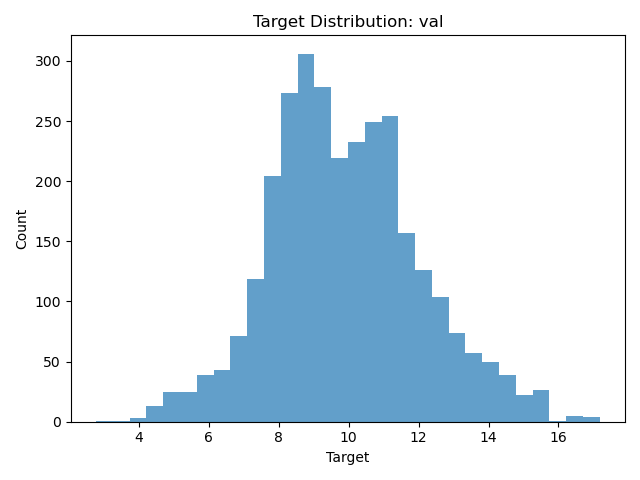
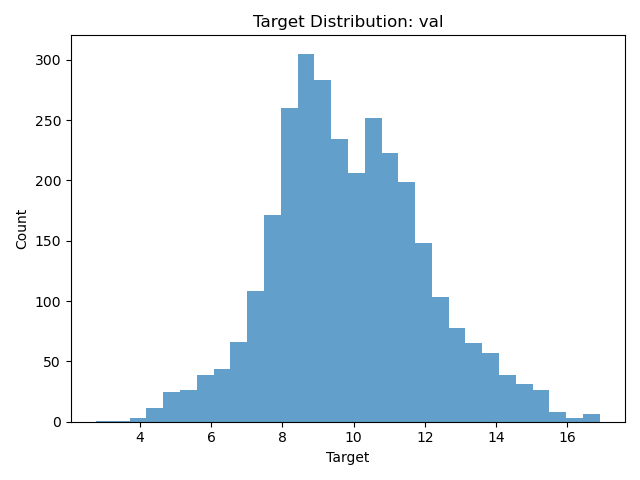
Update training configuration and improve checkpoint handling
- Added new parameters for learning rate scheduling in train.yaml
- Updated .gitignore to include new asset files
- Enhanced checkpoint logic in train.py to handle model recovery based on validation loss

diff --git a/train.py b/train.py
@@ -56,8 +56,7 @@ def train(cfg, train_idx=None, val_idx=None):
     # On retient dans une variable min_learning rate le learning rate final du scheduler
     # Cette variable min_learning_rate est très importante car elle conditionne la fin de
     # la convergence
-    min_learning_rate = cfg.min_learning_rate
-    scheduler = ReduceLROnPlateau(optimizer, mode='min', factor=0.1, patience=3, min_lr=min_learning_rate)
+    scheduler = ReduceLROnPlateau(optimizer, mode='min', factor=cfg.factor_learning_rate, patience=cfg.patience_learning_rate, min_lr=cfg.min_learning_rate)
 
     # Envoie le sanity check a wandb pour le training set
     train_sanity = show_images(train_loader, name="assets/sanity/train_images")
@@ -205,11 +204,13 @@ def train(cfg, train_idx=None, val_idx=None):
         # Sauvegarde #
         ##############
 
+        # On récupère le dernier checkpoint en vérifiant que l'on a déjà sauvegardé
+        # un modèle avant
+        if (epoch != 0) : 
+            checkpoint = torch.load(cfg.checkpoint_path, weights_only=False)
+        
+        # On sauvegarde à intervalles réguliers
         if (epoch % cfg.checkpoint_interval == 0) :
-            # On récupère le dernier checkpoint en vérifiant que l'on a déjà sauvegardé
-            # un modèle avant
-            if (epoch != 0) : 
-                checkpoint = torch.load(cfg.checkpoint_path, weights_only=False)
             # On verifie si le val_loss est meilleur que le dernier
             if (epoch == 0 or checkpoint['val_loss'] > epoch_val_loss) :
                 # Si oui, on sauvegarde le modèle    
@@ -223,12 +224,19 @@ def train(cfg, train_idx=None, val_idx=None):
                 torch.save(checkpoint, cfg.checkpoint_path)
                 print ("Modèle enregistré !")
 
+        # Si le modèle est pire que le dernier, on repart avec le précédent
+        if (checkpoint['val_loss'] < epoch_val_loss * (1 + cfg.aberration_val_loss)):
+            print ("Aberration de la val_loss")
+            model.load_state_dict(checkpoint)
+            optimizer.load_state_dict(checkpoint['optimizer_state_dict'])
+        
+
         ################################
         # Conditions de sortie de loop #
         ################################
         epoch += 1
 
-        if (current_lr <= min_learning_rate or epoch > max_epochs) :
+        if (current_lr <= cfg.min_learning_rate or epoch > max_epochs) :
             print ("***")
             print ("Fin de la convergence")
             print ("***")
